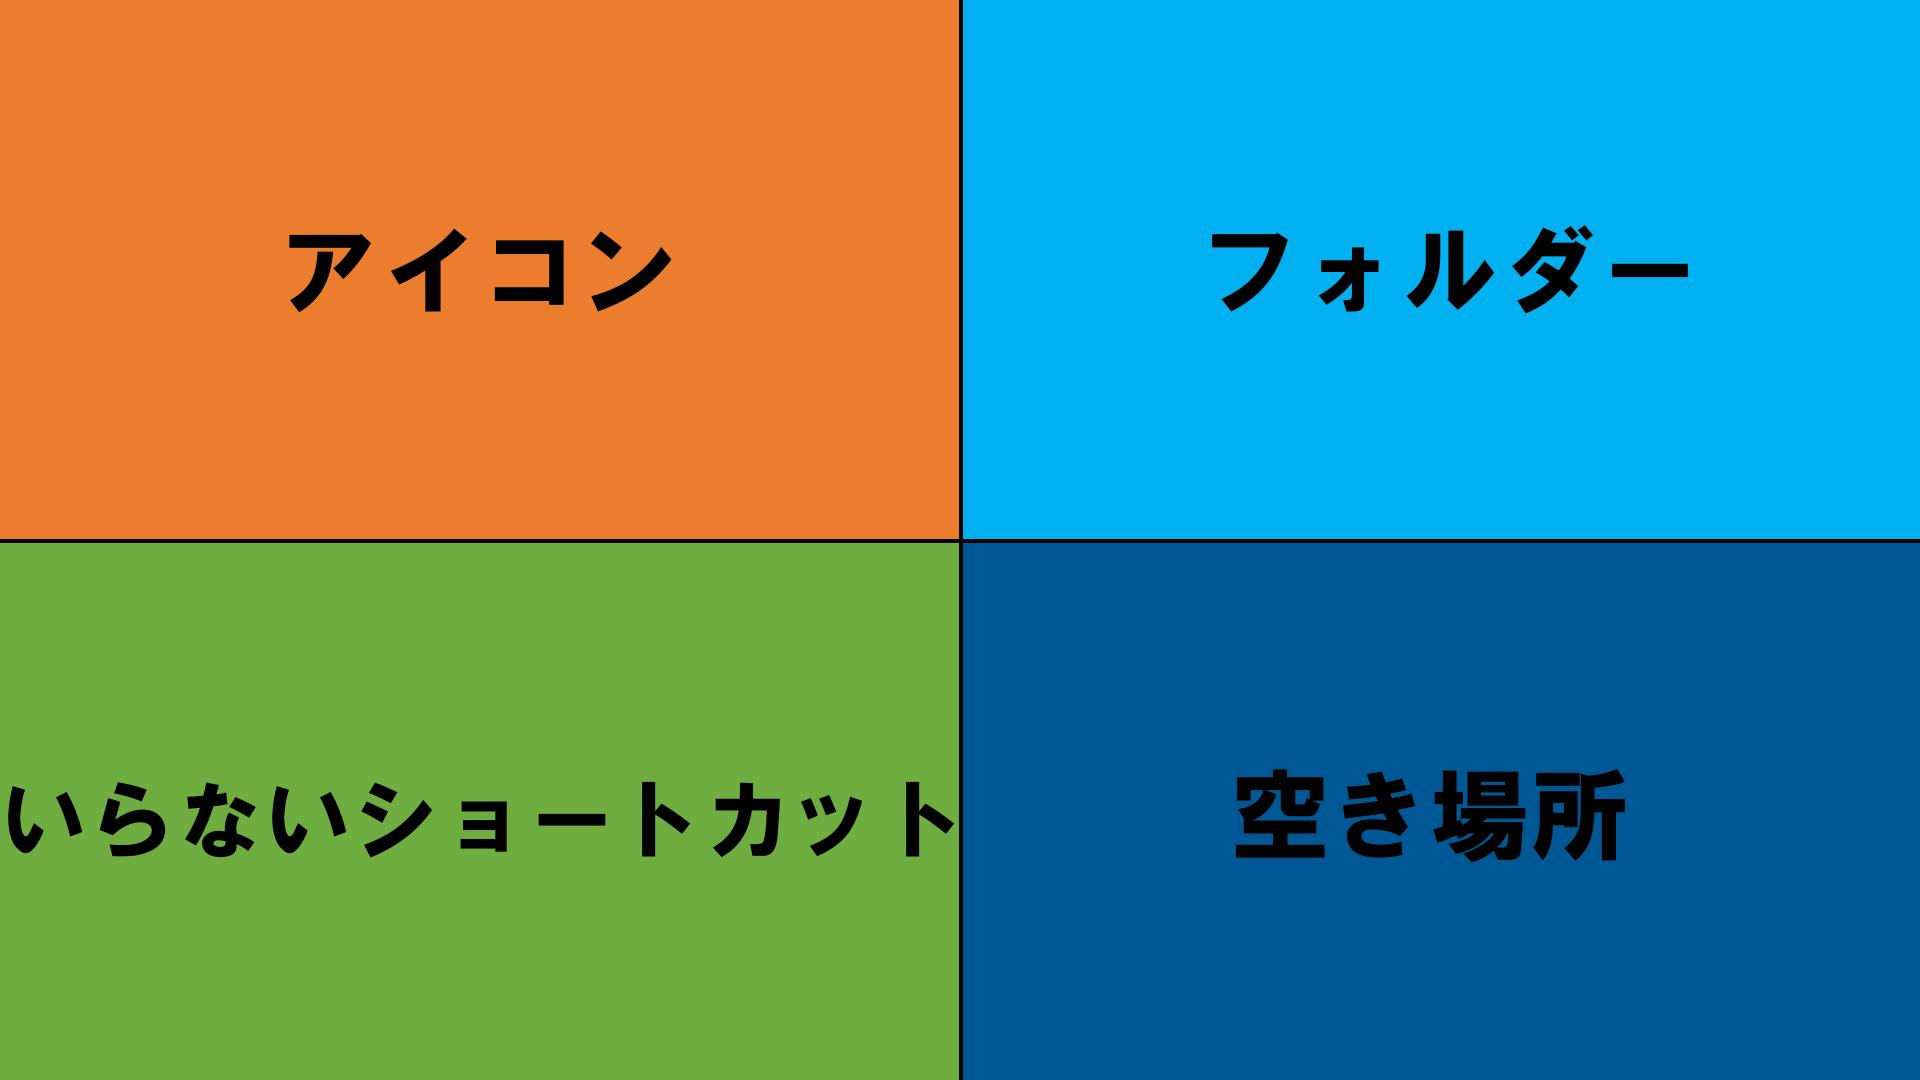
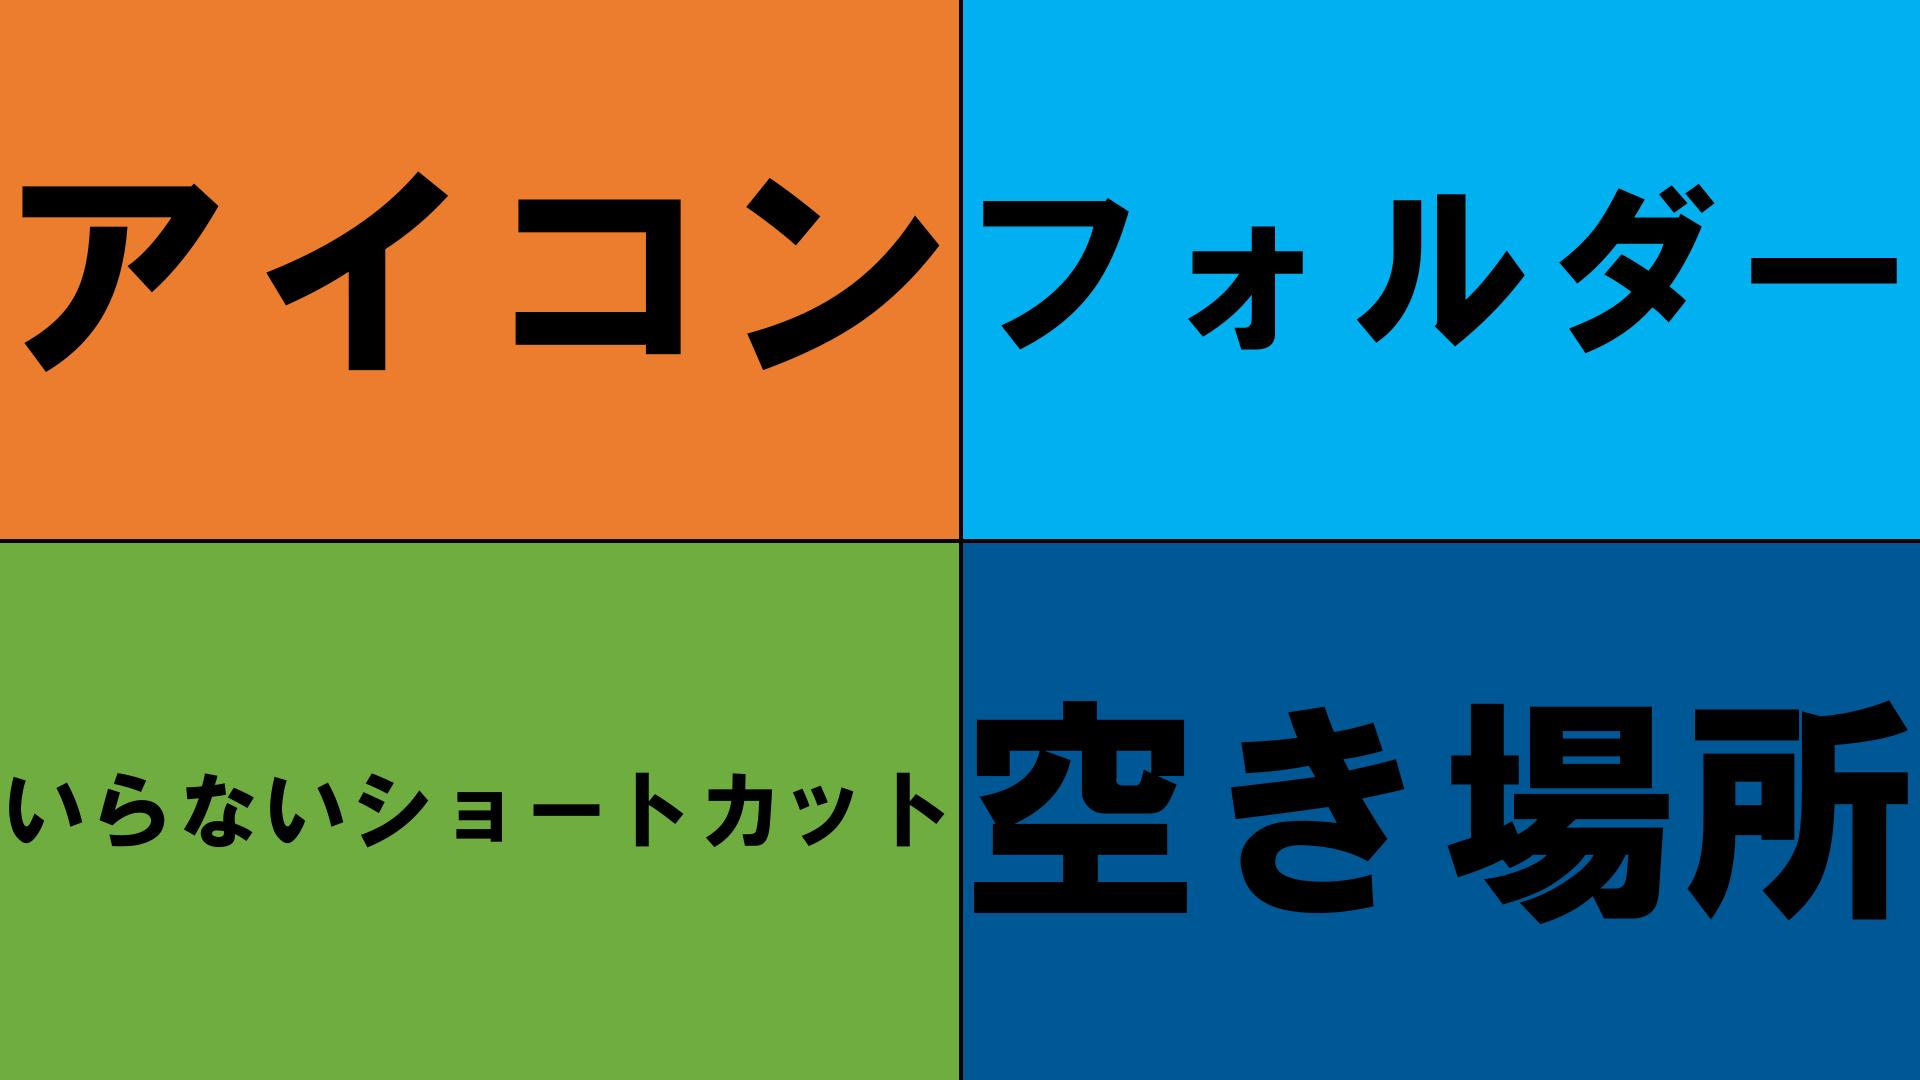
壁紙作成スクリプト は メガしんか した ようだ！ 出力が キモく なった ようだ！

Changed region(s): [[0.0, 0.6417, 1.0, 0.8556], [0.0, 0.1528, 0.5938, 0.3667], [0.625, 0.1528, 1.0, 0.3361]]

diff --git a/files/desktop.py b/files/desktop.py
@@ -1,17 +1,40 @@
 from PIL import Image, ImageDraw, ImageFont
 
-im = Image.new('RGB', (1920, 1080), (255, 255, 255))
+
+def get_max_font_size(draw, text, font_path, box_width, box_height, max_font_size=300):
+    for font_size in range(max_font_size, 0, -1):
+        font = ImageFont.truetype(font_path, font_size)
+        bbox = draw.textbbox((0, 0), text, font=font)
+        w = bbox[2] - bbox[0]
+        h = bbox[3] - bbox[1]
+        if w <= box_width and h <= box_height:
+            return font_size
+    return 1
+
+
+WIDTH = 1920
+HEIGHT = 1080
+font_path = '/mnt/c/Windows/Fonts/HGRSGU.TTC'
+
+im = Image.new('RGB', (WIDTH, HEIGHT), (255, 255, 255))
 draw = ImageDraw.Draw(im)
-draw.rectangle((0, 0, 960, 540), fill=(237, 125, 46))
-draw.rectangle((960, 0, 1920, 540), fill=(1, 176, 241))
-draw.rectangle((0, 540, 960, 1080), fill=(112, 173, 64))
-draw.rectangle((960, 540, 1920, 1080), fill=(0, 87, 150))
-draw.line((0, 540, 1920, 540), fill=(0, 0, 0), width=4)
-draw.line((960, 0, 960, 1080), fill=(0, 0, 0), width=4)
-font = ImageFont.truetype('HGSoeiKakugothicUB_X0213(04).ttc', 100)
-small_font = ImageFont.truetype('HGSoeiKakugothicUB_X0213(04).ttc', 88)
-draw.text((280, 220), "アイコン", (0, 0, 0), align="center", font=font)
-draw.text((1200, 220), "フォルダー", (0, 0, 0), align="center", font=font)
-draw.text((0, 775), "いらないショートカット", (0, 0, 0), align="center", font=small_font)
-draw.text((1230, 765), "空き場所", (0, 0, 0), align="center", font=font)
-im.save('desctop.jpg')
+blocks = [
+    ((0, 0, WIDTH/2, HEIGHT/2), "アイコン", (237, 125, 46)),
+    ((WIDTH/2, 0, WIDTH, HEIGHT/2), "フォルダー", (1, 176, 241)),
+    ((0, HEIGHT/2, WIDTH/2, HEIGHT), "いらないショートカット", (112, 173, 64)),
+    ((WIDTH/2, HEIGHT/2, WIDTH, HEIGHT), "空き場所", (0, 87, 150)),
+]
+for rect, text, color in blocks:
+    draw.rectangle(rect, fill=color)
+    box_w = int(rect[2] - rect[0])
+    box_h = int(rect[3] - rect[1])
+    font_size = get_max_font_size(
+        draw, text, font_path, box_w, box_h, max_font_size=300)
+    font = ImageFont.truetype(font_path, font_size)
+    x = (rect[0]+rect[2])/2
+    y = (rect[1]+rect[3])/2
+    draw.text((x, y), text, (0, 0, 0), font=font, anchor="mm")
+
+draw.line((0, HEIGHT/2, WIDTH, HEIGHT/2), fill=(0, 0, 0), width=4)
+draw.line((WIDTH/2, 0, WIDTH/2, HEIGHT), fill=(0, 0, 0), width=4)
+im.save("desktop.jpg")
